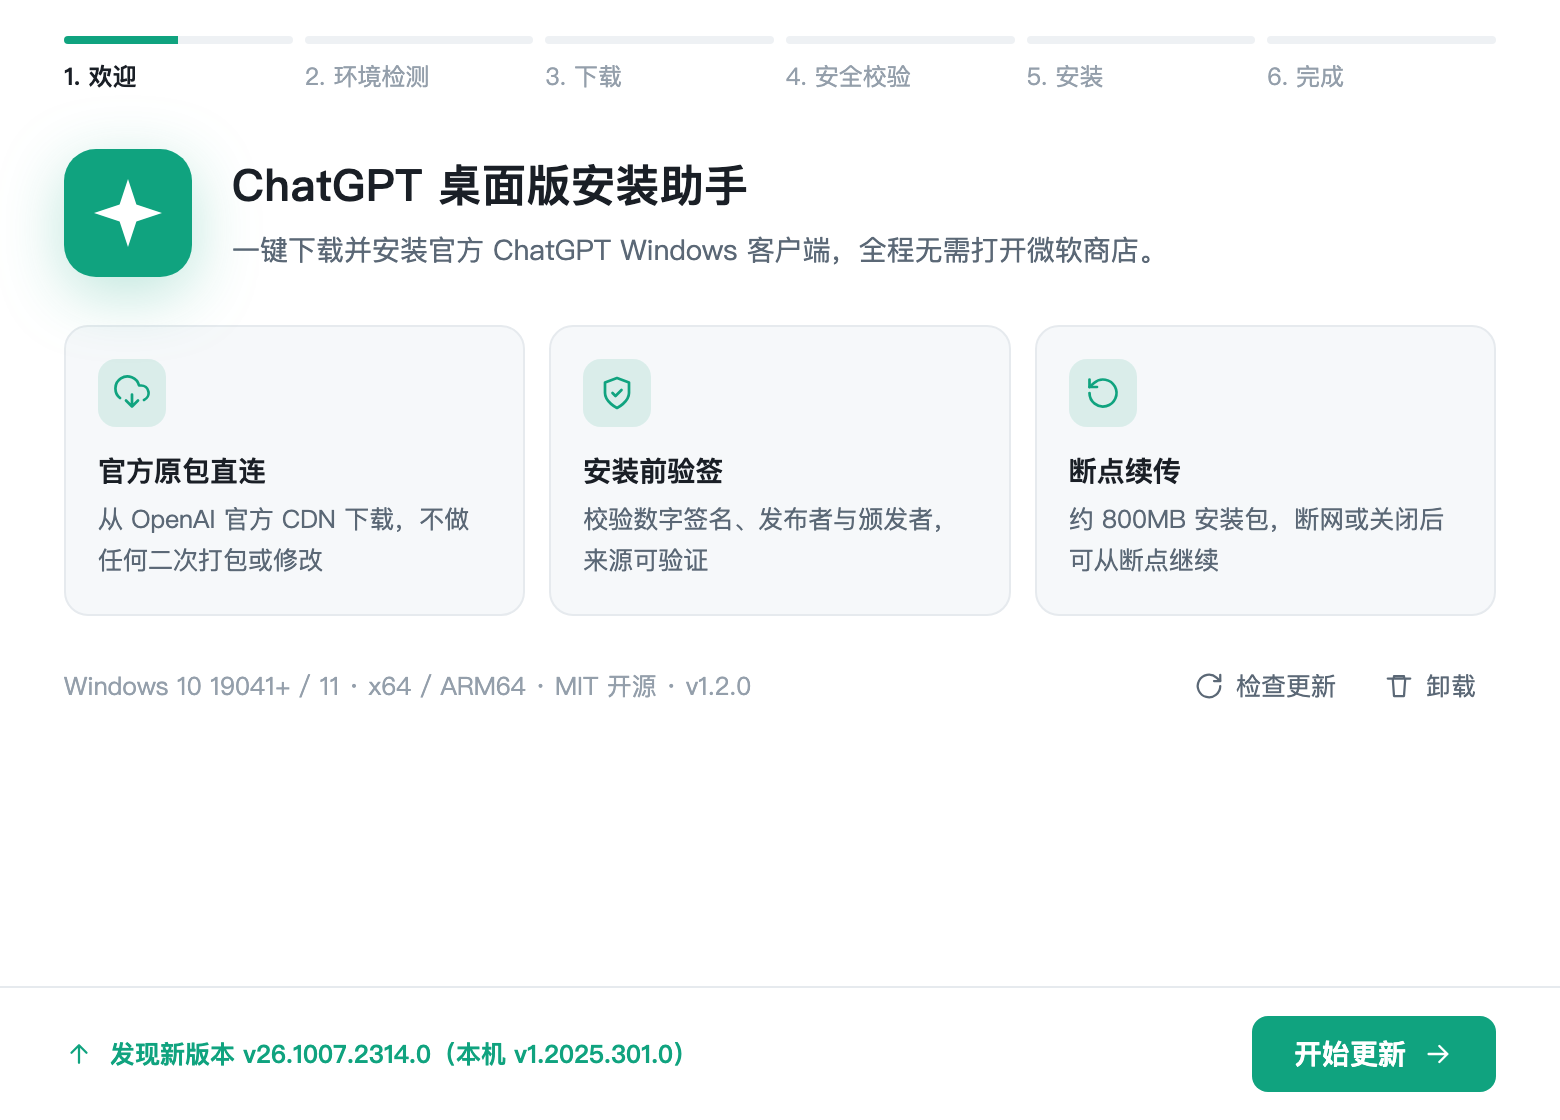
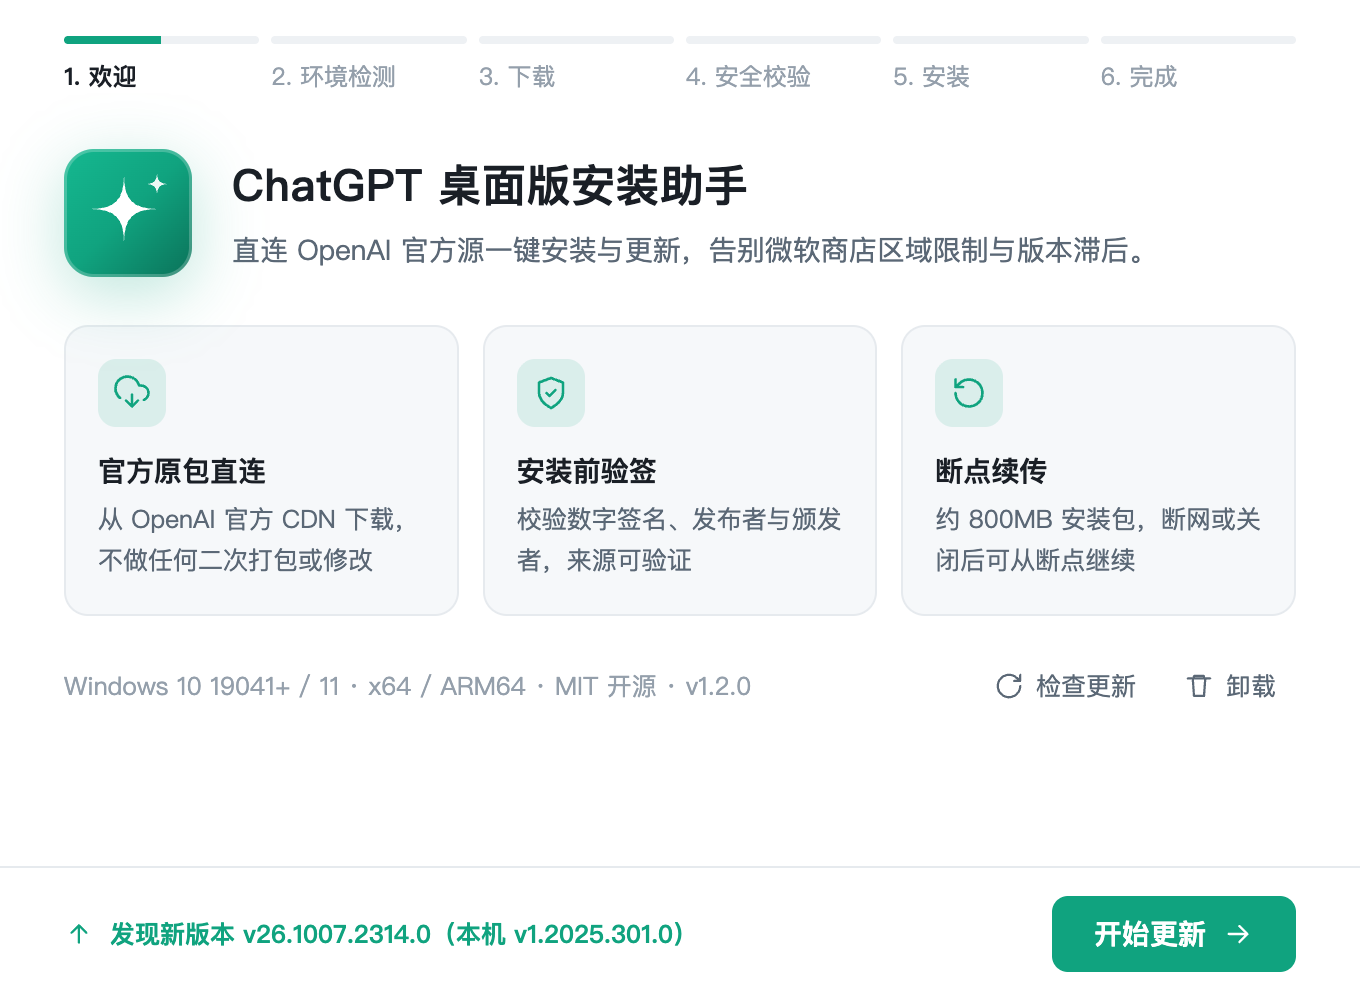
docs(readme): 重构 README，补充中国区微软商店版本滞后背景、核心痛点与解决方案

diff --git a/src/app.js b/src/app.js
@@ -6,7 +6,7 @@
 
 const TAURI = (window.__TAURI__ && window.__TAURI__.core) ? window.__TAURI__ : null;
 const DEMO = !TAURI;
-if (DEMO) document.body.classList.add('demo');
+if (DEMO && !location.search.includes('nodemo')) document.body.classList.add('demo');
 
 const $ = id => document.getElementById(id);
 const esc = s => String(s == null ? '' : s).replace(/[&<>"']/g, c =>

diff --git a/src/index.html b/src/index.html
@@ -52,7 +52,7 @@
       </svg>
       <div>
         <h1>ChatGPT 桌面版安装助手</h1>
-        <p>一键下载并安装官方 ChatGPT Windows 客户端，全程无需打开微软商店。</p>
+        <p>直连 OpenAI 官方源一键安装与更新，告别微软商店区域限制与版本滞后。</p>
       </div>
     </div>
     <div class="feat">

diff --git a/README.md b/README.md
@@ -1,124 +1,141 @@
-# ChatGPT 安装助手
+# ChatGPT 桌面版安装助手 (ChatGPT Desktop Installer)
 
-Windows 上一键下载并安装 **官方 ChatGPT 桌面版** 的开源小工具。全程无需打开微软商店。
+直连 OpenAI 官方源，在 Windows 上一键**下载、验签、安装与更新**官方 ChatGPT 桌面客户端的开源小工具——**无需打开微软商店，告别区域限制与商店版本滞后**。
 
-![License](https://img.shields.io/badge/license-MIT-green) ![Platform](https://img.shields.io/badge/platform-Windows%2010%2F11-blue)
+![License](https://img.shields.io/badge/license-MIT-green) ![Platform](https://img.shields.io/badge/platform-Windows%2010%2F11%20(x64%20%26%20ARM64)-blue) ![Size](https://img.shields.io/badge/size-~3MB%20单文件-10a37f)
 
 ![应用截图](docs/screenshot-home.png)
 
-## 它做什么
+---
 
-1. **环境检测** — 系统版本、CPU 原生架构（ARM64 设备自动匹配 ARM64 包）、磁盘空间、官方 CDN 连通性，装之前先把坑排掉
-2. **下载** — 从 OpenAI 官方 CDN 直连下载 MSIX 安装包，断点续传，实时显示速度与剩余时间
-3. **安全校验** — 校验数字签名、发布者、证书颁发者、包身份，确认是官方版本才继续
-4. **安装** — 优先免提权为当前用户安装；必要时才请求一次 UAC，并整机预置
-5. **检查更新** — 欢迎页自动对比云端版本，有新版一键重新下载覆盖安装（Add-AppxPackage 原生升级语义）
+## 为什么做这个工具？
 
-界面跟随系统浅色 / 暗色主题。
+在 Windows 上安装或更新官方 ChatGPT 桌面版时，国内用户经常遇到以下痛点：
 
-## 信任说明（请先读）
+1. **微软商店区域限制与版本滞后**：Windows 默认处于中国区时无法在 Microsoft Store 直接获取；即便修改地区安装后，微软商店渠道的版本推送也常常**落后于 OpenAI 官方最新版本**，无法第一时间体验新功能。
+2. **微软商店本身环境问题多**：商店常出现 `0x80072EFD` 网络报错、一直卡在“正在开始下载”，而 Windows LTSC / 企业精简版系统甚至没有预装微软商店。
+3. **手动下载 `.msix` 安装门槛高、易中断**：官方安装包体积高达 **800 MB+**，浏览器直接下载一旦网络波动就得从头再来；下载后双击安装还常因缺少 `App Installer` 或系统未开启“开发人员旁加载策略”（`0x80073CFD`）而报错失败。
+4. **第三方网盘搬运包真假难辨**：网上流传的各类“网盘离线包 / 绿色安装包”无法直观确认是否被二次打包篡改，存在账号与隐私安全隐患。
 
-- 安装包全部来自 OpenAI 官方 CDN（`persistent.oaistatic.com`），本程序**不做任何二次打包、不修改、不托管**任何二进制文件
-- 校验依据是 **Authenticode 数字签名**（发布者精确匹配 `CN=50BDFD77-8903-4850-9FFE-6E8522F64D5B`，颁发者须为 Microsoft Corporation 的 Marketplace CA），不是哈希——官方地址是固定 latest 指针，版本会变，签名才是可信依据
-- **纯客户端，零服务端**：下载直连官方，校验安装都在本地，不设账号、不收集任何数据、不回传
-- 使用 ChatGPT 仍需登录你自己的 OpenAI 账号
-- 与 OpenAI / Microsoft 无任何隶属关系，非官方项目
+---
+
+## 我们解决了哪些问题？
+
+### 1. 直连 OpenAI 官方 CDN，第一时间更新官方最新版
+- **零中转直连**：直接从 OpenAI 官方分发源（`persistent.oaistatic.com`）拉取最新安装包，不做任何二次打包、不经过任何第三方服务器。
+- **云端版本对比与无损升级**：打开软件即可通过 `Range: bytes=0-0` 轻量探测云端最新包的 `ETag` 与体积，自动与本机已安装版本比对。发现新版时一键覆盖升级（基于 `Add-AppxPackage` 原生升级语义，**完整保留已有登录状态与本地聊天记录**）。
+
+### 2. 800 MB+ 大包断点续传 + `If-Range` 防串包
+- **随时暂停与续传**：支持手动暂停、断网重连、关闭软件后下次接着下载，实时显示下载速度与预计剩余时间（ETA）。
+- **跨版本续传保护**：续传时自动携带上次记录的 `If-Range: <ETag>`。若续传期间 OpenAI 恰好发布了新版本，自动识别并重新拉取完整新版，**绝不会把新旧两个版本的分片拼成损坏包**。
+- **自定义缓存目录**：支持将 800 MB+ 安装包缓存改到 D 盘等非系统盘，避免占用 C 盘空间。
+
+### 3. 安装前四重本地安全验签
+安装前强制在本地完成四项核验，任一不通过立即拦截并拒绝安装：
+1. **Authenticode 数字签名完整性**：调用系统 `Get-AuthenticodeSignature` 验证签名状态必须为 `Valid`（防传输损坏或篡改）；
+2. **发布者精确匹配**：签名证书 `Subject` 必须精确匹配 OpenAI 官方发布者 ID（`CN=50BDFD77-8903-4850-9FFE-6E8522F64D5B`）；
+3. **微软根证书链核验**：证书颁发者（`Issuer`）必须为 Microsoft Corporation 的 Marketplace 代码签名 CA（防伪造自签名证书）；
+4. **MSIX 包内部清单校验**：直接解析 MSIX 内部 `AppxManifest.xml`，核对包名（`OpenAI.ChatGPT-Desktop`）、发布者与目标 CPU 架构一致。
+
+### 4. 智能环境诊断与疑难杂症自动修复
+- **物理 CPU 原生架构识别**：通过 Win32 `IsWow64Process2` 识别机器真实的物理架构。哪怕在 Surface / 骁龙 X Elite 等 **ARM64 设备**上以 x64 模拟模式运行本安装器，也会自动匹配并下载原生 `ARM64` 版本的 ChatGPT。
+- **最小权限原则 + 跨账号 UAC 无缝接力**：
+  - 默认以普通用户权限安装，不弹 UAC；
+  - 仅在系统禁用旁加载（`0x80073CFD`）或策略受限时，才请求一次管理员提权，自动开启系统旁加载策略并完成整机预置（`Add-AppxProvisionedPackage`）；
+  - **支持企业/标准用户跨账号提权**：当普通用户借用另一个管理员账号通过 UAC 提权时，自动透传原用户的包路径与 `%LOCALAPPDATA%`，避免在管理员账户下重复下载 800 MB 安装包。
+- **一键干净卸载**：内置卸载功能，可自由选择「仅卸载程序（保留登录态与聊天记录）」或「彻底卸载并清理 `%LOCALAPPDATA%` 下的应用数据」。
+- **极速原生体验**：仅 ~3 MB 单文件 `.exe`，零前端框架依赖；管理员检测、CPU 架构、磁盘空间查询全部调用原生 Win32 API 毫秒级完成，并完美适配 Windows 11 浅色 / 深色主题与高清任务栏图标。
+
+---
 
 ## 快速开始（普通用户）
 
-1. 到 [Releases](../../releases) 下载 `chatgpt-installer.exe`（单文件免安装，双击即用，推荐）
-   - 备选：`ChatGPT 安装助手_x.x.x_x64-setup.exe`（NSIS 安装向导版，会写入开始菜单与系统卸载列表，适合偏好"正式安装"的用户）
-   - 两个二选一即可，不用都下
-2. 双击运行，跟着向导走完 6 步即可
-3. 首次启动 Windows 可能会弹 SmartScreen（未购买代码签名证书所致），点"更多信息 → 仍要运行"
+1. 前往 [Releases](../../releases) 页面下载最新版：
+   - **推荐**：`chatgpt-installer.exe`（单文件便携版，双击即用，无需安装）
+   - **备选**：`ChatGPT 安装助手_x.x.x_x64-setup.exe`（传统安装向导版，会创建开始菜单快捷方式）
+2. 双击运行，跟随向导走完 **环境检测 → 下载 → 安全校验 → 安装** 即可；后续想升级最新版时，再次打开点击底部「检查更新 / 开始更新」即可。
+
+> **💡 关于首次运行 Windows SmartScreen 提示**：
+> 由于本项目为免费个人开源项目，暂未购买昂贵的商业 EV 代码签名证书，首次双击时 Windows 可能会弹出蓝框提示“Windows 已保护你的电脑”。你可以任选以下一种方式运行：
+> - **方式一**：点击弹窗上的 **「更多信息」→「仍要运行」**；
+> - **方式二（零弹窗）**：右键下载好的 `chatgpt-installer.exe` → **「属性」** → 勾选底部的 **「解除锁定 (Unblock)」** → 确定，之后双击就不会再弹提示。
+
+---
 
 ## 开发者构建
 
-需要一台 Windows 机器：
+在 Windows 10 / 11 机器上：
 
 ```powershell
-# 1. 安装 Rust（https://rustup.rs）与 Node.js（用于免编译获取 Tauri CLI）
+# 1. 安装 Rust（https://rustup.rs）与 Node.js（用于免编译调用预编译 Tauri CLI）
 
-# 2. 构建
+# 2. 编译打包
 npx @tauri-apps/cli@^2 build
 ```
 
-产物二选一：
-- `src-tauri/target/release/chatgpt-installer.exe` — 裸 exe，单文件免安装（Win10/11 自带 WebView2），直接分发这个即可
-- NSIS 安装包（`target/release/bundle/nsis/`）— 传统安装向导形态
+构建产物：
+- `src-tauri/target/release/chatgpt-installer.exe` — 单文件免安装版（Windows 10/11 自带 WebView2 运行时）
+- `src-tauri/target/release/bundle/nsis/*.exe` — NSIS 安装向导版
 
-> 前端可直接用浏览器打开 `src/index.html` 进入**演示模式**（假数据）预览全部界面。
-> Rust 部分在 Linux/macOS 上可用 `cargo check --target x86_64-pc-windows-gnu` 做交叉检查，
-> 完整编译与真机测试必须在 Windows 上完成。推送到 main / PR 时 CI 会自动跑 fmt、clippy 与单元测试。
+> - 前端可直接用浏览器打开 `src/index.html` 进入**演示模式**预览全部交互流程。
+> - 在 macOS / Linux 上可通过 `cargo clippy --target x86_64-pc-windows-gnu` 进行交叉静态检查与单元测试。
+> - 诊断日志保存在 `%LOCALAPPDATA%\com.github.chatgpt-installer\installer.log`（安装失败页点击「复制诊断日志」即可一键复制）。
 
-### 发布
-
-1. 同步修改 `src-tauri/Cargo.toml` 与 `src-tauri/tauri.conf.json` 的 `version`
-2. 打 tag `vX.Y.Z` 并推送，CI 校验版本一致后自动构建并创建 Release
-
-诊断日志位于 `%LOCALAPPDATA%\com.github.chatgpt-installer\installer.log`（失败页「复制诊断日志」即复制此文件末尾内容）。
+---
 
 ## 项目结构
 
-```
+```text
 chatgpt-installer/
-├── src/                      # 前端：向导 UI（零依赖，浏览器打开即演示模式）
-│   ├── index.html            # 页面结构 + SVG 图标
-│   ├── style.css             # 设计变量 / 浅色暗色主题
-│   └── app.js                # 步骤流转 + Tauri IPC + 演示数据
+├── src/                      # 前端：Fluent 风格向导 UI（原生 HTML/CSS/JS，零第三方依赖）
+│   ├── index.html            # 页面结构与内联 SVG 图标集
+│   ├── style.css             # 响应式布局与浅色/深色主题变量
+│   └── app.js                # 6 步状态机、Tauri IPC 与浏览器演示模式
 └── src-tauri/
     ├── src/
-    │   ├── main.rs           # Tauri 入口、提权重启参数、单实例
-    │   ├── cmds.rs           # 前端 IPC 命令、诊断日志
-    │   ├── constants.rs      # 官方下载地址与包身份常量
-    │   ├── env_check.rs      # 环境检测
-    │   ├── download.rs       # 断点续传下载、云端版本对比
-    │   ├── verify.rs         # 签名/发布者/颁发者/包身份校验
-    │   ├── install.rs        # 安装 / 卸载
-    │   ├── elevate.rs        # 提权重启（UAC 结果回传）
-    │   ├── sys.rs            # Win32 API：管理员 / 原生架构 / 磁盘空间
-    │   ├── ps.rs             # PowerShell 调用与命令行引用
-    │   ├── settings.rs       # 下载目录与安装记录
-    │   └── errors.rs         # 错误码 → 中文说明映射
-    ├── capabilities/         # Tauri 2 权限配置
+    │   ├── main.rs           # Tauri 入口、跨账号提权参数透传、单实例锁
+    │   ├── cmds.rs           # 前端 IPC 命令、异步线程封装与诊断日志
+    │   ├── constants.rs      # OpenAI 官方 CDN 地址与签名证书常量
+    │   ├── env_check.rs      # 系统版本、原生架构、磁盘空间与网络检测
+    │   ├── download.rs       # 断点续传、If-Range 校验与云端版本对比
+    │   ├── verify.rs         # Authenticode 签名/发布者/颁发者/Manifest 四重校验
+    │   ├── install.rs        # MSIX 安装、旁加载自动开启、整机预置与卸载
+    │   ├── elevate.rs        # RunAs 提权重启与 UAC 取消识别
+    │   ├── sys.rs            # 原生 Win32 API（管理员检测/原生架构/磁盘空间/任务栏大小图标）
+    │   ├── ps.rs             # 无窗口 PowerShell 调用封装与安全转义
+    │   ├── settings.rs       # 下载目录与已安装版本指纹持久化
+    │   └── errors.rs         # HRESULT 错误码 → 中文排障提示映射
+    ├── icons/                # 标准多尺寸 DIB/PNG 应用图标
+    ├── capabilities/         # Tauri v2 最小权限配置
     └── tauri.conf.json
 ```
 
-## 常见错误码
+---
 
-| 错误码 | 含义 | 解法 |
-|---|---|---|
-| `0x80073D02` | 应用正在运行 | 完全退出 ChatGPT（含托盘）后重试 |
-| `0x80073CFD` | 旁加载被禁用 | 以管理员身份运行，程序自动放行 |
-| `0x800B0109` | 签名不受信任 | 包损坏，点「重试」会删除后重新下载 |
-| `0x80073D28` | 需要管理员权限 | 右键以管理员身份运行 |
-| `NEED_ELEVATION` | 需要提权 | 点「继续」，程序自动提权重启继续 |
-| `UAC_CANCELLED` | 系统权限确认被取消 | 点「重试」再次请求；非管理员账号请联系管理员 |
+## 常见错误码速查
 
-## 路线图
+| 错误码 | 含义 | 自动处理 / 解决方式 |
+| :--- | :--- | :--- |
+| `0x80073D02` | ChatGPT 正在运行中 | 完全退出已打开的 ChatGPT（含右下角托盘图标）后点「重试」 |
+| `0x80073CFD` | 系统未开启应用旁加载 | 点击「继续」，安装器会自动请求一次管理员权限开启旁加载并继续安装 |
+| `0x800B0109` | 签名证书链不受信任 | 安装包损坏或系统根证书缺失，点「重试」会自动清理坏包并重新下载 |
+| `0x80073D28` | 策略要求管理员权限 | 点击「继续」或右键以管理员身份运行 |
+| `NEED_ELEVATION` | 当前操作需要管理员权限 | 点击页面按钮，程序会自动提权重启并无缝续跑当前步骤 |
+| `UAC_CANCELLED` | 取消了 UAC 权限确认 | 点击「重试」并在系统弹窗中点「是」 |
 
-- [ ] `PackageManager` 原生 API 安装，拿真实百分比进度（v1 用社区验证的 `Add-AppxPackage` 路线）
-- [ ] 多下载源测速自动切换（官方直连 / 备用镜像）
-- [ ] 安装器自身自动更新（Tauri updater + GitHub Release）
-- [ ] 英文界面
+---
 
-## 代码签名与隐私声明 (Code Signing & Privacy Policy)
+## 隐私与安全声明 (Privacy Policy)
 
-### Code Signing Policy
+**本程序承诺绝不向任何第三方或开发者服务器上传、收集任何用户数据。**  
+*(This program will not transfer any information to other networked systems unless specifically requested by the user or the person installing or operating it.)*
 
-Free code signing provided by [SignPath.io](https://signpath.io), certificate by [SignPath Foundation](https://signpath.org).
+- **纯本地运行**：本工具无任何后端服务器、无账号体系、无统计埋点、无遥测回传。
+- **网络请求完全透明**：程序仅在用户触发「检查更新」、「环境检测」或「下载安装包」时，直接连接 OpenAI 官方 CDN（`https://persistent.oaistatic.com/sidekick/public/ChatGPT_Desktop_public_latest.msix`）。
+- **非官方声明**：本项目为独立开源工具，与 OpenAI 及 Microsoft 无任何隶属关系；安装完成后使用 ChatGPT 仍需登录你自己的 OpenAI 账号。
 
-- **Committers & Reviewers / Approvers**: [@zktww](https://github.com/zktww)
-- All official release binaries are built exclusively via [GitHub Actions](.github/workflows/build-windows.yml) directly from the public source code in this repository.
+---
 
-### Privacy Policy
+## 开源协议
 
-**This program will not transfer any information to other networked systems unless specifically requested by the user or the person installing or operating it.**
-
-- The installer only connects to:
-  1. OpenAI's official desktop distribution CDN (`https://persistent.oaistatic.com/sidekick/public/ChatGPT_Desktop_public_latest.msix`) when checking for updates or when the user initiates a download.
-- No telemetry, analytics, crash reports, or personal data are collected or transmitted to any third-party or developer-controlled servers.
-
-## 协议
-
-MIT — 可自由使用、修改、分发（含商业用途），详见 [LICENSE](LICENSE)。
+本项目基于 [MIT License](LICENSE) 开源，可自由使用、修改与分发。
